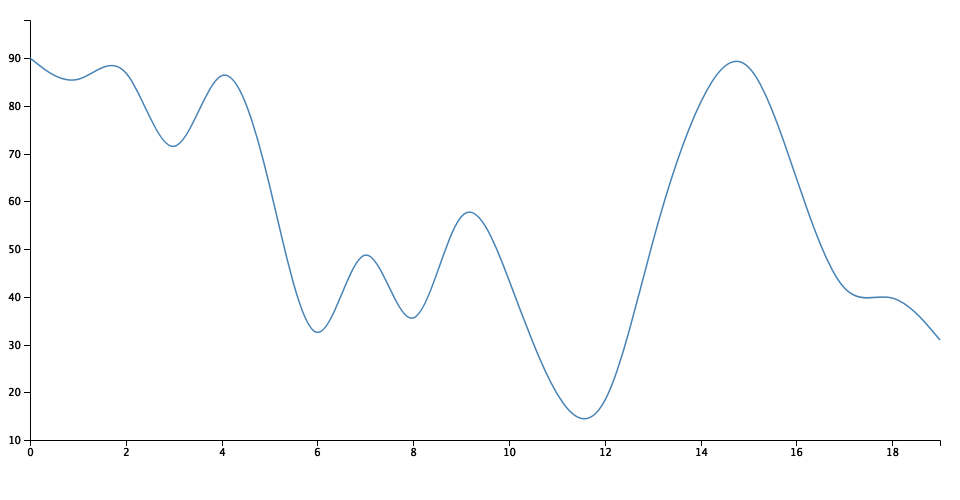
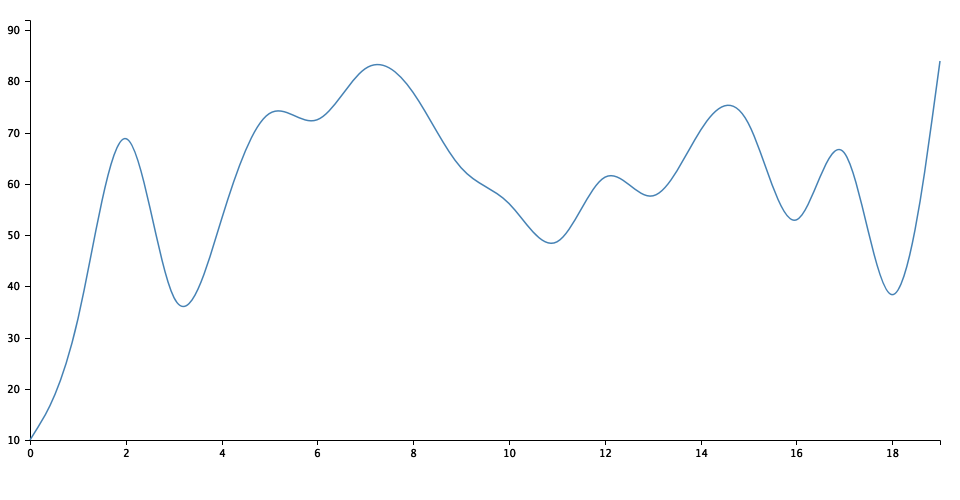
improve axis

diff --git a/example/output.html b/example/output.html
@@ -1,5 +1,5 @@
 <html><head></head><body><div id="container">
       <h2>Line Chart</h2>
-      <div id="chart"><svg xmlns="http://www.w3.org/2000/svg" width="960" height="500"><g transform="translate(30, 20)"><g><g transform="translate(0, 420)" fill="none" font-size="10" font-family="sans-serif" text-anchor="middle"><path class="domain" stroke="#000" d="M0.5,6V0.5H910.5V6"></path><g class="tick" opacity="1" transform="translate(0,0)"><line stroke="#000" y2="6" x1="0.5" x2="0.5"></line><text fill="#000" y="9" x="0.5" dy="0.71em">0</text></g><g class="tick" opacity="1" transform="translate(96,0)"><line stroke="#000" y2="6" x1="0.5" x2="0.5"></line><text fill="#000" y="9" x="0.5" dy="0.71em">2</text></g><g class="tick" opacity="1" transform="translate(192,0)"><line stroke="#000" y2="6" x1="0.5" x2="0.5"></line><text fill="#000" y="9" x="0.5" dy="0.71em">4</text></g><g class="tick" opacity="1" transform="translate(287,0)"><line stroke="#000" y2="6" x1="0.5" x2="0.5"></line><text fill="#000" y="9" x="0.5" dy="0.71em">6</text></g><g class="tick" opacity="1" transform="translate(383,0)"><line stroke="#000" y2="6" x1="0.5" x2="0.5"></line><text fill="#000" y="9" x="0.5" dy="0.71em">8</text></g><g class="tick" opacity="1" transform="translate(479,0)"><line stroke="#000" y2="6" x1="0.5" x2="0.5"></line><text fill="#000" y="9" x="0.5" dy="0.71em">10</text></g><g class="tick" opacity="1" transform="translate(575,0)"><line stroke="#000" y2="6" x1="0.5" x2="0.5"></line><text fill="#000" y="9" x="0.5" dy="0.71em">12</text></g><g class="tick" opacity="1" transform="translate(671,0)"><line stroke="#000" y2="6" x1="0.5" x2="0.5"></line><text fill="#000" y="9" x="0.5" dy="0.71em">14</text></g><g class="tick" opacity="1" transform="translate(766,0)"><line stroke="#000" y2="6" x1="0.5" x2="0.5"></line><text fill="#000" y="9" x="0.5" dy="0.71em">16</text></g><g class="tick" opacity="1" transform="translate(862,0)"><line stroke="#000" y2="6" x1="0.5" x2="0.5"></line><text fill="#000" y="9" x="0.5" dy="0.71em">18</text></g></g><g fill="none" font-size="10" font-family="sans-serif" text-anchor="end"><path class="domain" stroke="#000" d="M-6,420.5H0.5V0.5H-6"></path><g class="tick" opacity="1" transform="translate(0,420)"><line stroke="#000" x2="-6" y1="0.5" y2="0.5"></line><text fill="#000" x="-9" y="0.5" dy="0.32em">10</text></g><g class="tick" opacity="1" transform="translate(0,372)"><line stroke="#000" x2="-6" y1="0.5" y2="0.5"></line><text fill="#000" x="-9" y="0.5" dy="0.32em">20</text></g><g class="tick" opacity="1" transform="translate(0,325)"><line stroke="#000" x2="-6" y1="0.5" y2="0.5"></line><text fill="#000" x="-9" y="0.5" dy="0.32em">30</text></g><g class="tick" opacity="1" transform="translate(0,277)"><line stroke="#000" x2="-6" y1="0.5" y2="0.5"></line><text fill="#000" x="-9" y="0.5" dy="0.32em">40</text></g><g class="tick" opacity="1" transform="translate(0,229)"><line stroke="#000" x2="-6" y1="0.5" y2="0.5"></line><text fill="#000" x="-9" y="0.5" dy="0.32em">50</text></g><g class="tick" opacity="1" transform="translate(0,181)"><line stroke="#000" x2="-6" y1="0.5" y2="0.5"></line><text fill="#000" x="-9" y="0.5" dy="0.32em">60</text></g><g class="tick" opacity="1" transform="translate(0,134)"><line stroke="#000" x2="-6" y1="0.5" y2="0.5"></line><text fill="#000" x="-9" y="0.5" dy="0.32em">70</text></g><g class="tick" opacity="1" transform="translate(0,86)"><line stroke="#000" x2="-6" y1="0.5" y2="0.5"></line><text fill="#000" x="-9" y="0.5" dy="0.32em">80</text></g><g class="tick" opacity="1" transform="translate(0,38)"><line stroke="#000" x2="-6" y1="0.5" y2="0.5"></line><text fill="#000" x="-9" y="0.5" dy="0.32em">90</text></g><text fill="#000" transform="rotate(-90)" y="6" dy="0.71em"></text></g><path fill="none" stroke="steelblue" stroke-width="1.5" d="M0,38L8,44.333333333333336C16,50.666666666666664,32,63.333333333333336,48,59.333333333333336C64,55.333333333333336,80,34.666666666666664,96,53C112,71.33333333333333,128,128.66666666666666,144,126.33333333333333C160,124,176,62,191.83333333333334,55.666666666666664C207.66666666666666,49.333333333333336,223.33333333333334,98.66666666666667,239.16666666666666,163.83333333333334C255,229,271,310,287,312.3333333333333C303,314.6666666666667,319,238.33333333333334,335,235.16666666666666C351,232,367,302,383,298C399,294,415,216,431,197C447,178,463,218,479,260.1666666666667C495,302.3333333333333,511,346.6666666666667,527,373.6666666666667C543,400.6666666666667,559,410.3333333333333,575,380.1666666666667C591,350,607,280,623,221.16666666666666C639,162.33333333333334,655,114.66666666666667,670.8333333333334,82C686.6666666666666,49.333333333333336,702.3333333333334,31.666666666666668,718.1666666666666,46.833333333333336C734,62,750,110,766,157C782,204,798,250,814,267.5C830,285,846,274,862,278C878,282,894,301,902,310.5L910,320"></path></g></g></svg></div>
+      <div id="chart"><svg xmlns="http://www.w3.org/2000/svg" width="960" height="500"><g transform="translate(30, 20)"><g><g transform="translate(0, 420)" fill="none" font-size="10" font-family="sans-serif" text-anchor="middle"><path class="domain" stroke="#000" d="M0.5,5V0.5H910.5V5"></path><g class="tick" opacity="1" transform="translate(0,0)"><line stroke="#000" y2="5" x1="0.5" x2="0.5"></line><text fill="#000" y="10" x="0.5" dy="0.71em">0</text></g><g class="tick" opacity="1" transform="translate(96,0)"><line stroke="#000" y2="5" x1="0.5" x2="0.5"></line><text fill="#000" y="10" x="0.5" dy="0.71em">2</text></g><g class="tick" opacity="1" transform="translate(192,0)"><line stroke="#000" y2="5" x1="0.5" x2="0.5"></line><text fill="#000" y="10" x="0.5" dy="0.71em">4</text></g><g class="tick" opacity="1" transform="translate(287,0)"><line stroke="#000" y2="5" x1="0.5" x2="0.5"></line><text fill="#000" y="10" x="0.5" dy="0.71em">6</text></g><g class="tick" opacity="1" transform="translate(383,0)"><line stroke="#000" y2="5" x1="0.5" x2="0.5"></line><text fill="#000" y="10" x="0.5" dy="0.71em">8</text></g><g class="tick" opacity="1" transform="translate(479,0)"><line stroke="#000" y2="5" x1="0.5" x2="0.5"></line><text fill="#000" y="10" x="0.5" dy="0.71em">10</text></g><g class="tick" opacity="1" transform="translate(575,0)"><line stroke="#000" y2="5" x1="0.5" x2="0.5"></line><text fill="#000" y="10" x="0.5" dy="0.71em">12</text></g><g class="tick" opacity="1" transform="translate(671,0)"><line stroke="#000" y2="5" x1="0.5" x2="0.5"></line><text fill="#000" y="10" x="0.5" dy="0.71em">14</text></g><g class="tick" opacity="1" transform="translate(766,0)"><line stroke="#000" y2="5" x1="0.5" x2="0.5"></line><text fill="#000" y="10" x="0.5" dy="0.71em">16</text></g><g class="tick" opacity="1" transform="translate(862,0)"><line stroke="#000" y2="5" x1="0.5" x2="0.5"></line><text fill="#000" y="10" x="0.5" dy="0.71em">18</text></g></g><g fill="none" font-size="10" font-family="sans-serif" text-anchor="end"><path class="domain" stroke="#000" d="M-5,420.5H0.5V0.5H-5"></path><g class="tick" opacity="1" transform="translate(0,420)"><line stroke="#000" x2="-5" y1="0.5" y2="0.5"></line><text fill="#000" x="-10" y="0.5" dy="0.32em">10</text></g><g class="tick" opacity="1" transform="translate(0,369)"><line stroke="#000" x2="-5" y1="0.5" y2="0.5"></line><text fill="#000" x="-10" y="0.5" dy="0.32em">20</text></g><g class="tick" opacity="1" transform="translate(0,318)"><line stroke="#000" x2="-5" y1="0.5" y2="0.5"></line><text fill="#000" x="-10" y="0.5" dy="0.32em">30</text></g><g class="tick" opacity="1" transform="translate(0,266)"><line stroke="#000" x2="-5" y1="0.5" y2="0.5"></line><text fill="#000" x="-10" y="0.5" dy="0.32em">40</text></g><g class="tick" opacity="1" transform="translate(0,215)"><line stroke="#000" x2="-5" y1="0.5" y2="0.5"></line><text fill="#000" x="-10" y="0.5" dy="0.32em">50</text></g><g class="tick" opacity="1" transform="translate(0,164)"><line stroke="#000" x2="-5" y1="0.5" y2="0.5"></line><text fill="#000" x="-10" y="0.5" dy="0.32em">60</text></g><g class="tick" opacity="1" transform="translate(0,113)"><line stroke="#000" x2="-5" y1="0.5" y2="0.5"></line><text fill="#000" x="-10" y="0.5" dy="0.32em">70</text></g><g class="tick" opacity="1" transform="translate(0,61)"><line stroke="#000" x2="-5" y1="0.5" y2="0.5"></line><text fill="#000" x="-10" y="0.5" dy="0.32em">80</text></g><g class="tick" opacity="1" transform="translate(0,10)"><line stroke="#000" x2="-5" y1="0.5" y2="0.5"></line><text fill="#000" x="-10" y="0.5" dy="0.32em">90</text></g></g><path fill="none" stroke="steelblue" stroke-width="1.5" d="M0,420L8,407.1666666666667C16,394.3333333333333,32,368.6666666666667,48,298.6666666666667C64,228.66666666666666,80,114.33333333333333,96,118.66666666666667C112,123,128,246,144,277.6666666666667C160,309.3333333333333,176,249.66666666666666,191.83333333333334,198.33333333333334C207.66666666666666,147,223.33333333333334,104,239.16666666666666,93.66666666666667C255,83.33333333333333,271,105.66666666666667,287,99.83333333333333C303,94,319,60,335,48.833333333333336C351,37.666666666666664,367,49.333333333333336,383,72.33333333333333C399,95.33333333333333,415,129.66666666666666,431,147.66666666666666C447,165.66666666666666,463,167.33333333333334,479,183.5C495,199.66666666666666,511,230.33333333333334,527,221.83333333333334C543,213.33333333333334,559,165.66666666666666,575,157.16666666666666C591,148.66666666666666,607,179.33333333333334,623,175.83333333333334C639,172.33333333333334,655,134.66666666666666,670.8333333333334,109.83333333333333C686.6666666666666,85,702.3333333333334,73,718.1666666666666,103C734,133,750,205,766,200C782,195,798,113,814,132.5C830,152,846,273,862,274.6666666666667C878,276.3333333333333,894,158.66666666666666,902,99.83333333333333L910,41"></path></g></g></svg></div>
     </div>
   </body></html>

diff --git a/index.js b/index.js
@@ -16,6 +16,8 @@ function line({
   lineWidth: _lineWidth = 1.5,
   lineColor: _lineColor = 'steelblue',
   isCurve: _isCurve = true,
+  tickSize: _tickSize = 5,
+  tickPadding: _tickPadding = 5,
 } = {}) {
   const d3n = new D3Node({
     selector: _selector,
@@ -36,33 +38,31 @@ function line({
 
   const g = svg.append('g');
 
-  const x = d3.scaleLinear()
+  const xScale = d3.scaleLinear()
       .rangeRound([0, width]);
-
-  const y = d3.scaleLinear()
+  const yScale = d3.scaleLinear()
       .rangeRound([height, 0]);
+  const xAxis = d3.axisBottom(xScale)
+        .tickSize(_tickSize)
+        .tickPadding(_tickPadding);
+  const yAxis = d3.axisLeft(yScale)
+        .tickSize(_tickSize)
+        .tickPadding(_tickPadding);
 
   const lineChart = d3.line()
-      .x(d => x(d.key))
-      .y(d => y(d.value));
+      .x(d => xScale(d.key))
+      .y(d => yScale(d.value));
 
   if (_isCurve) lineChart.curve(d3.curveBasis);
 
-  x.domain(d3.extent(data, d => d.key));
-  y.domain(d3.extent(data, d => d.value));
+  xScale.domain(d3.extent(data, d => d.key));
+  yScale.domain(d3.extent(data, d => d.value));
 
   g.append('g')
     .attr('transform', `translate(0, ${height})`)
-    .call(d3.axisBottom(x))
-    .select('.domain');
+    .call(xAxis);
 
-  g.append('g')
-    .call(d3.axisLeft(y))
-    .append('text')
-    .attr('fill', '#000')
-    .attr('transform', 'rotate(-90)')
-    .attr('y', 6)
-    .attr('dy', '0.71em');
+  g.append('g').call(yAxis);
 
   g.append('path')
     .datum(data)
